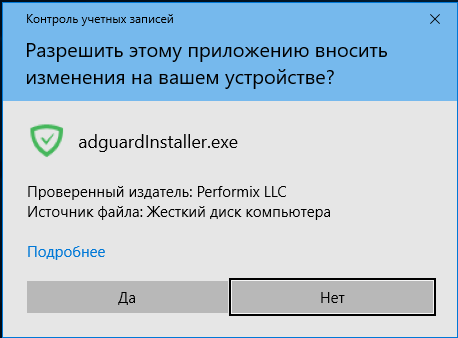
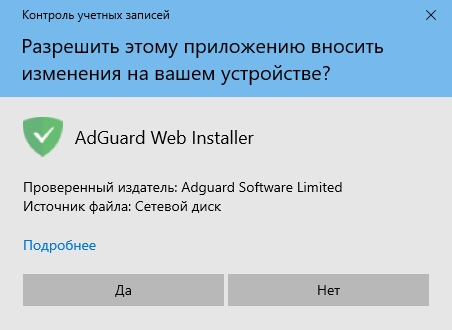
UpdateWindowsScreens
feature/update_windows_article

Changed region(s): [[0.0, 0.0, 1.0, 1.0], [0.4956, 0.8182, 0.9602, 0.9394], [0.2478, 0.8485, 0.3097, 0.9091]]

diff --git a/03.windows/02.installation/docs.ru.md b/03.windows/02.installation/docs.ru.md
@@ -30,27 +30,27 @@ taxonomy:
 
 3) На экране появится диалоговое окно службы Контроля учетных записей пользователей, содержащее запрос на внесение изменений в настройки вашего компьютера. Нажмите на кнопку ***Да***.
 
-![](adguard_win_install_RU_02.png)
+<img src="https://cdn.adguard.com/public/Adguard/kb/newscreenshots/Ru/Windows7.1/notificationRu.jpg" style="border: 1px solid #efefef; max-width: 600px" />
 
-4) Программа установки предложит вам ознакомиться с текстом Пользовательского Соглашения. Следует принять условия этого Соглашения нажатием на кнопку ***Я принимаю условия***, расположенную в нижней части окна. 
+4) Программа установки предложит вам ознакомиться с текстом Пользовательского Соглашения. Ознакомившись с правилами вы можете продолжить установка нажав ***Установить***. 
 
- ![](adguard_win_install_RU_03.png)
+<img src="https://cdn.adguard.com/public/Adguard/kb/newscreenshots/Ru/Windows7.1/installRu.jpg" style="border: 1px solid #efefef; max-width: 600px" />
 
-5) На следующем этапе необходимо выбрать папку на вашем компьютере, в которую будет установлена программа. Если вас по каким-либо причинам не устраивает предложенная по умолчанию папка установки, нажмите на расположенную правее кнопку **[…]**. В открывшемся окне ***Обзор папок*** укажите папку, в которую вы желаете установить программу AdGuard, и подтвердите свой выбор нажатием на кнопку ***ОК***. Вы также можете установить AdGuard в новую папку: для этого щелкните мышью на кнопке ***Создать папку*** и введите ее имя. Чтобы разместить ярлык AdGuard на Рабочем столе Windows, установите флажок ***Создать ярлык на рабочем столе***. Для продолжения установки нажмите на кнопку ***Далее***.
- 
- ![](adguard_win_install_RU_04.png)
+5) Также вам предостоит возможность выбрать папку на вашем компьютере,в которую будет установлена программа. Если вас по каким-либо причинам не устраивает предложенная по умолчанию папка установки, нажмите внизу кнопку **[Настроить]**. В открывшемся окне ***Обзор папок*** укажите папку, в которую вы желаете установить программу AdGuard, и подтвердите свой выбор нажатием на кнопку ***ОК***. Вы также можете установить AdGuard в новую папку: для этого щелкните мышью на кнопке ***Создать папку*** и введите ее имя. Чтобы разместить ярлык AdGuard на Рабочем столе Windows, установите флажок ***Создать ярлык на рабочем столе***. Для продолжения установки нажмите на кнопку ***Далее***.
+
+ <img src="https://cdn.adguard.com/public/Adguard/kb/newscreenshots/Ru/Windows7.1/installsettingsRu.png" style="border: 1px solid #efefef; max-width: 600px" />
 
 6) В следующем окне вам будет предложено установить дополнительные продукты. Вы можете отказаться от использования этих приложений, переместив влево соответствующие переключатели в списке предлагаемых программ. Чтобы получить более подробные сведения об этих продуктах, воспользуйтесь ссылкой ***Узнать подробности*** в нижней части окна. Для продолжения установки нажмите на кнопку ***Далее***.
 
- ![](adguard_win_install_RU_05.png)
+ <img src="https://cdn.adguard.com/public/Adguard/kb/newscreenshots/Ru/Windows7.1/yaadsru.png" style="border: 1px solid #efefef; max-width: 600px" />
  
 7) Дождитесь окончания процедуры установки и щелкните мышью на кнопке ***Готово***.
 
- ![](adguard_win_install_RU_06.png)
+ <img src="https://cdn.adguard.com/public/Adguard/kb/newscreenshots/Ru/Windows7.1/finishru.png" style="border: 1px solid #efefef; max-width: 600px" />
  
 8) После завершения установки вы сможете изучить основные возможности программы AdGuard. Чтобы приступить к знакомству с приложением, а также настроить в пошаговом режиме основные параметры его работы, нажмите кнопку ***Начать***. Если вы хотите пропустить этот шаг, воспользуйтесь кнопкой ***Пропустить***.
 
- ![](adguard_win_install_RU_07.png)
+ <img src="https://cdn.adguard.com/public/Adguard/kb/newscreenshots/Ru/Windows7.1/thxforinstallRu.png" style="border: 1px solid #efefef; max-width: 600px" />
 
 Поздравляем, вы успешно установили программу AdGuard на свой компьютер. На экране отобразится основное окно приложения, в котором вы сможете изменить его настройки.
 
@@ -61,11 +61,11 @@ taxonomy:
 
 - В Microsoft Windows 10 откройте ***Главное меню*** нажатием кнопки ***Пуск*** и выберите в нем пункт ***Параметры***. В отобразившемся окне нажмите на значок ***Система***. В списке, расположенном в левой части окна ***Параметры***, выберите пункт ***Приложения и возможности***. В перечне установленных на вашем компьютере приложений выберите пункт ***Adguard*** и нажмите кнопку ***Удалить***. В открывшемся диалоговом окне подтвердите выбранное действие нажатием кнопки ***Удалить AdGuard***.
 
-  ![](adguard_win_install_RU_08.png)
+ <img src="https://cdn.adguard.com/public/Adguard/kb/newscreenshots/Ru/Windows7.1/uninstallRu.png" style="border: 1px solid #efefef; max-width: 600px" />
 
 - В Microsoft Windows 8.1, 8 или 7 откройте окно ***Панели управления***. Нажмите на надпись ***Удаление программы*** в разделе ***Программы***, затем выберите в списке установленных приложений AdGuard и нажмите кнопку ***Удалить***, расположенную непосредственно над этим списком. В открывшемся окне подтвердите выбранное действие нажатием кнопки ***Удалить AdGuard***.
 
-   ![](adguard_win_install_RU_09.png)
+ <img src="https://cdn.adguard.com/public/Adguard/kb/newscreenshots/Ru/Windows7.1/uninstallw7styleRu.png" style="border: 1px solid #efefef; max-width: 600px" />
 
 В случае, если обычное удаление по какой-либо причине не помогает, следуйте инструкциям по продвинутому удалению AdGuard.
 
